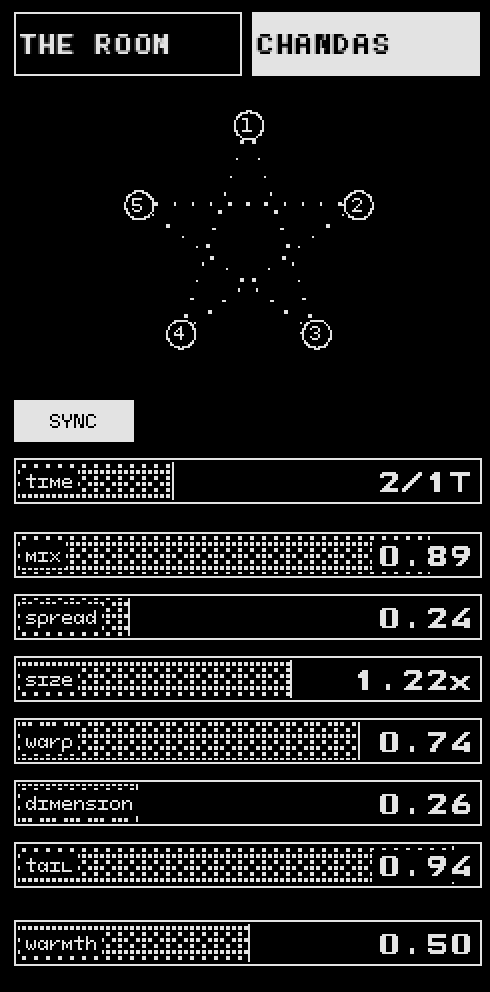
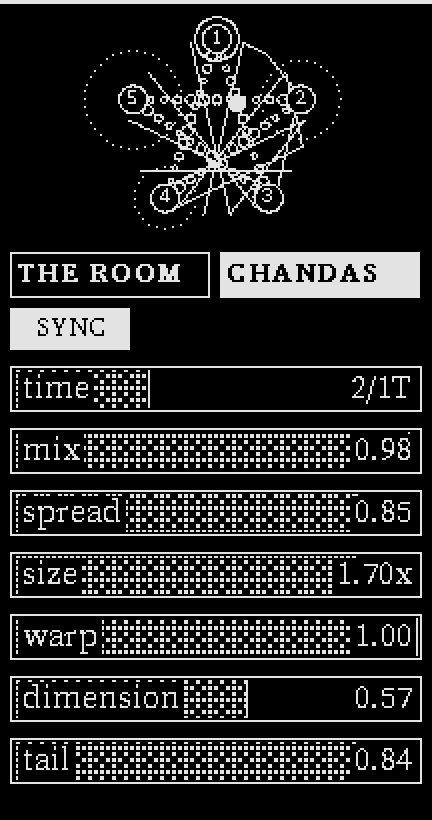
readme changes

diff --git a/src/gui/command.c b/src/gui/command.c
@@ -1336,33 +1336,39 @@ static bool resolve(App *a, const char *name, PresetRef *out, char *err,
     int hits = 0;
     const PresetRef *hit = NULL;
     int passes = want_bank ? 1 : 2;
-    for (int pass = 0; pass < passes && hits == 0; pass++) {
-        for (int i = 0; i < a->preset_count; i++) {
-            const PresetRef *p = &a->preset_names[i];
-            if (strcmp(p->bank, TRASH_DIR) == 0) continue;
-            /* typed names arrive cleaned, so a file named with characters
-               the cleaner replaces is matched by its cleaned spelling too */
-            char clean[192];
-            sanitise_segment(p->bank, clean, sizeof clean);
-            if (want_bank && strcasecmp(p->bank, want_bank) != 0
-                && strcasecmp(clean, want_bank) != 0)
-                continue;
-            bool in_view = true;
-            switch (a->preset_filter.kind) {
-            case FILTER_ALL: break;
-            case FILTER_MINE: in_view = strcmp(p->bank, STOCK_BANK) != 0; break;
-            case FILTER_BANK:
-                in_view = strcmp(p->bank, a->preset_filter.bank) == 0;
-                break;
+    /* typed names arrive cleaned, so when nothing matches exactly, a file
+       named with characters the cleaner replaces is matched by its cleaned
+       spelling */
+    for (int loose = 0; loose < 2 && hits == 0; loose++) {
+        for (int pass = 0; pass < passes && hits == 0; pass++) {
+            for (int i = 0; i < a->preset_count; i++) {
+                const PresetRef *p = &a->preset_names[i];
+                if (strcmp(p->bank, TRASH_DIR) == 0) continue;
+                char clean[192];
+                sanitise_segment(p->bank, clean, sizeof clean);
+                if (want_bank && strcasecmp(p->bank, want_bank) != 0
+                    && !(loose && strcasecmp(clean, want_bank) == 0))
+                    continue;
+                bool in_view = true;
+                switch (a->preset_filter.kind) {
+                case FILTER_ALL: break;
+                case FILTER_MINE:
+                    in_view = strcmp(p->bank, STOCK_BANK) != 0;
+                    break;
+                case FILTER_BANK:
+                    in_view = strcmp(p->bank, a->preset_filter.bank) == 0;
+                    break;
+                }
+                if (!want_bank && pass == 0 && !in_view) continue;
+                char low[192];
+                lower_into(p->name, low, sizeof low);
+                sanitise_segment(p->name, clean, sizeof clean);
+                if (strcmp(low, want_name) != 0
+                    && !(loose && strcasecmp(clean, want_name) == 0))
+                    continue;
+                hits++;
+                hit = p;
             }
-            if (!want_bank && pass == 0 && !in_view) continue;
-            char low[192];
-            lower_into(p->name, low, sizeof low);
-            sanitise_segment(p->name, clean, sizeof clean);
-            if (strcmp(low, want_name) != 0 && strcasecmp(clean, want_name) != 0)
-                continue;
-            hits++;
-            hit = p;
         }
     }
     if (hits == 0) return reason(err, err_len, "no preset called %s", name);

diff --git a/tests/test_console.c b/tests/test_console.c
@@ -676,6 +676,20 @@ static void odd_file_names_are_reachable(void) {
     preset_rescan(&app);
     CHECK(run_ok("rm USER/shun~1", err, sizeof err), "rm odd name: %s", err);
     CHECK(!present(odd), "shun~1 still there");
+
+    /* an exact name wins over a legacy spelling that cleans to the same */
+    char spaced[1024], joined[1024];
+    in_dir("the conch.json", spaced, sizeof spaced);
+    in_dir("the_conch.json", joined, sizeof joined);
+    json = session_to_json(&s);
+    CHECK(json && write_file(spaced, json) && write_file(joined, json),
+          "wrote both conches");
+    free(json);
+    preset_rescan(&app);
+    CHECK(run_ok("rm the_conch", err, sizeof err), "rm exact: %s", err);
+    CHECK(!present(joined) && present(spaced), "rm took the wrong conch");
+    CHECK(run_ok("rm the_conch", err, sizeof err), "rm legacy: %s", err);
+    CHECK(!present(spaced), "the conch still there");
 }
 
 static void trash_and_undo_round_trip(void) {
